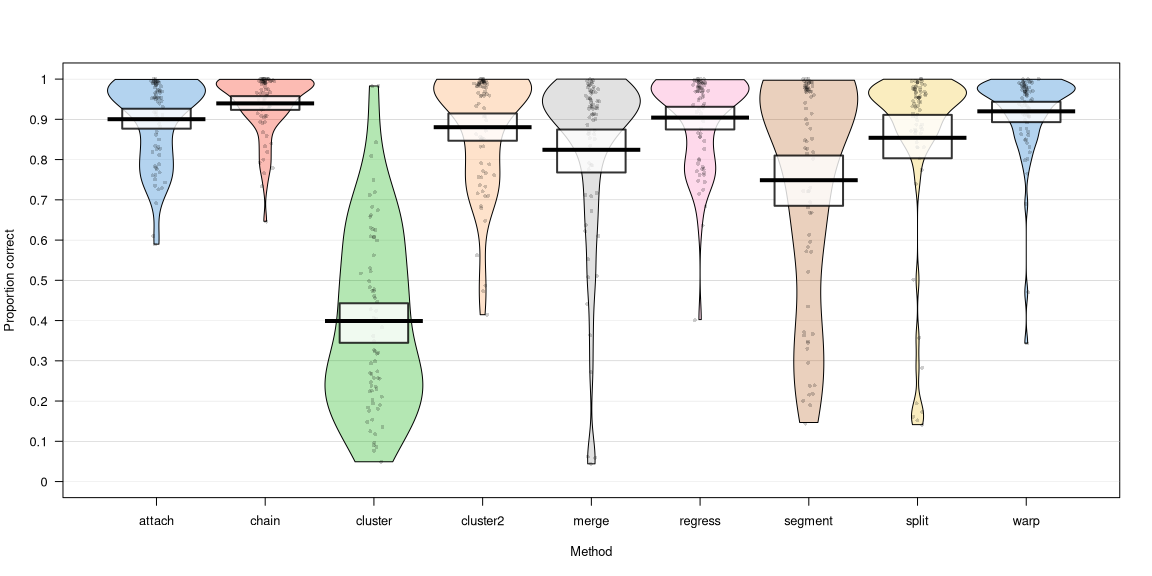
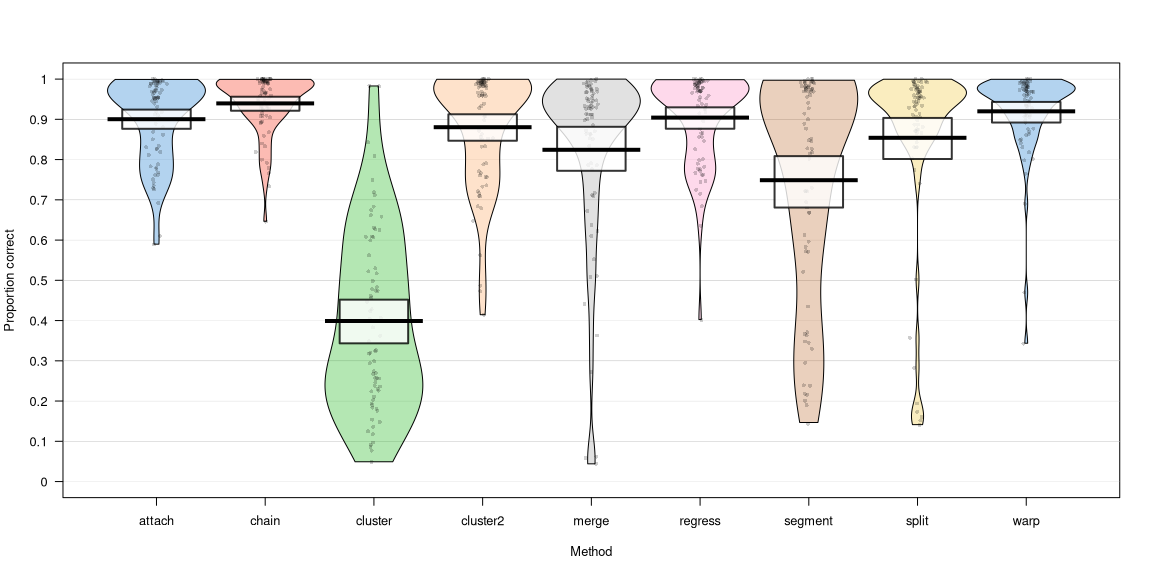
CompareAlgorithms updated

diff --git a/materials/CompareAlgorithms/CompareAlgorithms.md b/materials/CompareAlgorithms/CompareAlgorithms.md
@@ -634,12 +634,12 @@ assignment process.
 ## Edit (July 25, 2020)
 
 Jon Carr (personal communication, July 25, 2020) has confirmed that the
-discrepancy between the two regarding the `cluster` method is due to the
-(more conservative) way the k-means method is implemented in `R`. If the
-control parameters of the algorithm are set to `max.iter=300,
-nstart=100` the results are very similar to the `Python` implementation
-in their data. I also repeated the analysis using the new parameter
-settings (`cluster2`, see Fig. 4b and Tab. 1b below):
+discrepancy between the two analyses regarding the `cluster` method is
+due to the (more conservative) way the k-means method is implemented in
+`R`. If the control parameters of the algorithm are set to
+`max.iter=300, nstart=100` the results are very similar to the `Python`
+implementation in their data. I also repeated the analysis using the new
+parameter settings (`cluster2`, see Fig. 4b and Tab. 1b below):
 
 <div class="figure" style="text-align: center">
 
